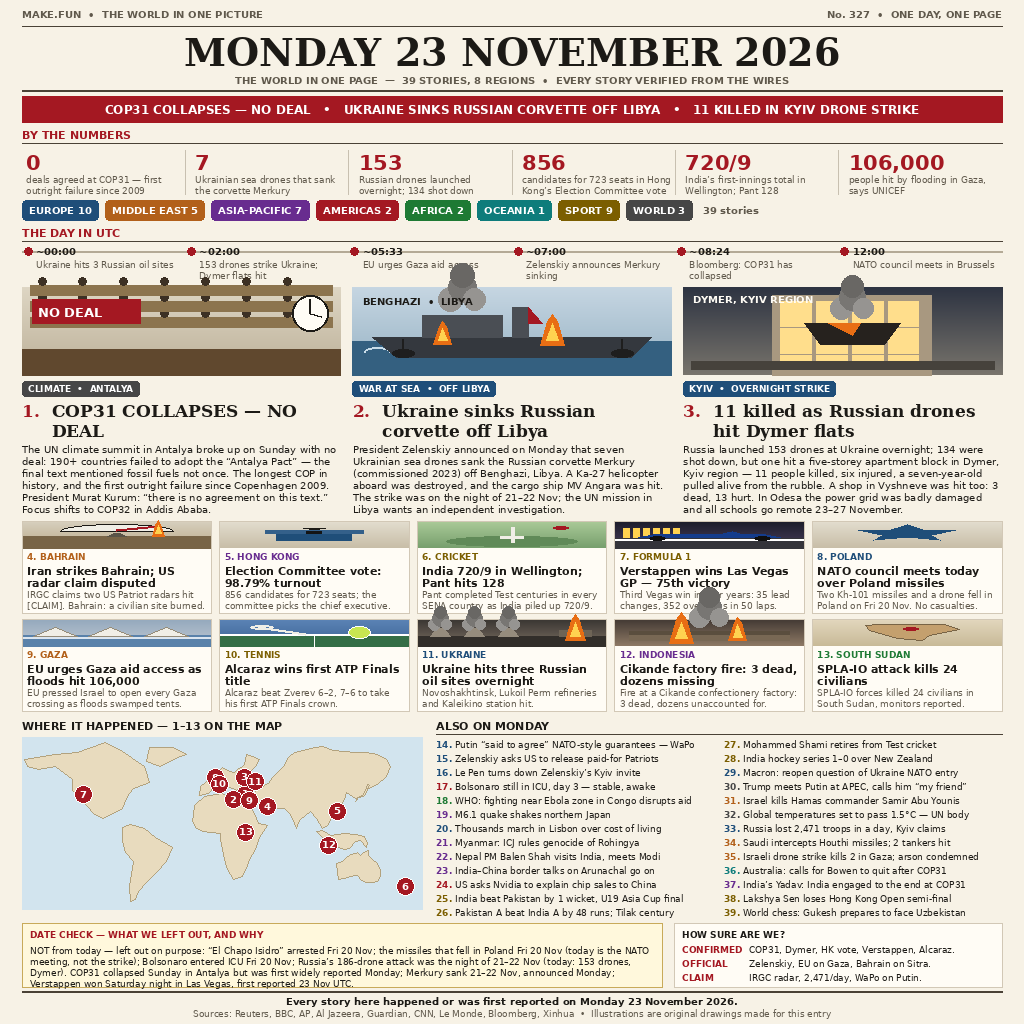
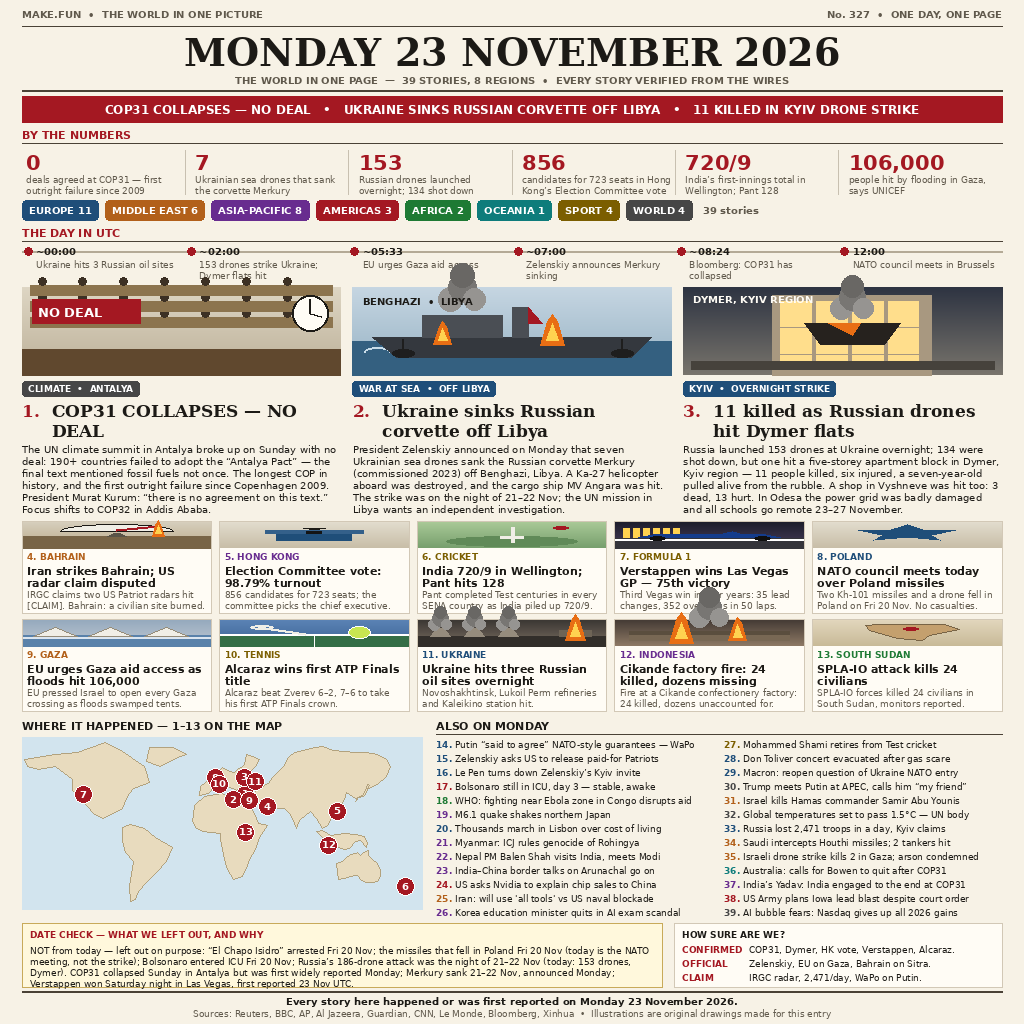
Fix Cikande toll to 24 killed; add front-page consensus stories (Korea minister, Don Toliver evacuation, Iowa blast plan, AI sell-off, Iran blockade vow)

diff --git a/build_image.py b/build_image.py
@@ -231,8 +231,8 @@ CARDS = [
     },
     {
         "n": 12, "region": "ASIA-PACIFIC", "lon": 106.2, "lat": -6.1,
-        "tag": "INDONESIA", "head": "Cikande factory fire: 3 dead, dozens missing",
-        "body": ("Fire at a Cikande confectionery factory: 3 dead, dozens "
+        "tag": "INDONESIA", "head": "Cikande factory fire: 24 killed, dozens missing",
+        "body": ("Fire at a Cikande confectionery factory: 24 killed, dozens "
                  "unaccounted for."),
         "ill": "fire",
     },
@@ -258,10 +258,10 @@ ALSO = [
     (22, "ASIA-PACIFIC", "Nepal PM Balen Shah visits India, meets Modi"),
     (23, "ASIA-PACIFIC", "India\u2013China border talks on Arunachal go on"),
     (24, "AMERICAS", "US asks Nvidia to explain chip sales to China"),
-    (25, "SPORT", "India beat Pakistan by 1 wicket, U19 Asia Cup final"),
-    (26, "SPORT", "Pakistan A beat India A by 48 runs; Tilak century"),
+    (25, "MIDDLE EAST", "Iran: will use 'all tools' vs US naval blockade"),
+    (26, "ASIA-PACIFIC", "Korea education minister quits in AI exam scandal"),
     (27, "SPORT", "Mohammed Shami retires from Test cricket"),
-    (28, "SPORT", "India hockey series 1\u20130 over New Zealand"),
+    (28, "EUROPE", "Don Toliver concert evacuated after gas scare"),
     (29, "EUROPE", "Macron: reopen question of Ukraine NATO entry"),
     (30, "WORLD", "Trump meets Putin at APEC, calls him \u201cmy friend\u201d"),
     (31, "MIDDLE EAST", "Israel kills Hamas commander Samir Abu Younis"),
@@ -271,8 +271,8 @@ ALSO = [
     (35, "MIDDLE EAST", "Israeli drone strike kills 2 in Gaza; arson condemned"),
     (36, "OCEANIA", "Australia: calls for Bowen to quit after COP31"),
     (37, "ASIA-PACIFIC", "India\u2019s Yadav: India engaged to the end at COP31"),
-    (38, "SPORT", "Lakshya Sen loses Hong Kong Open semi-final"),
-    (39, "SPORT", "World chess: Gukesh prepares to face Uzbekistan"),
+    (38, "AMERICAS", "US Army plans Iowa lead blast despite court order"),
+    (39, "WORLD", "AI bubble fears: Nasdaq gives up all 2026 gains"),
 ]
 
 NUMBERS = [

diff --git a/NOTES.md b/NOTES.md
@@ -10,7 +10,7 @@ Cards: 4 Iran strikes Bahrain, US radar claim disputed [CLAIM].
 Pant 128. 7 Verstappen wins Las Vegas GP, 75th win. 8 NATO council meets
 on Poland missiles. 9 Gaza: EU urges aid access, floods hit 106,000.
 10 Alcaraz wins first ATP Finals. 11 Ukraine hits three Russian oil
-sites. 12 Cikande factory fire, Indonesia — 3 dead. 13 South Sudan:
+sites. 12 Cikande factory fire, Indonesia — 24 killed. 13 South Sudan:
 SPLA-IO attack kills 24 civilians.
 
 Also on Monday (14–39): Putin "said to agree" NATO-style guarantees
@@ -19,15 +19,15 @@ Le Pen turns down Kyiv invite; Bolsonaro still in ICU day 3; WHO Ebola
 warning in Congo; M6.1 quake in northern Japan; Lisbon cost-of-living
 protests; ICJ rules Myanmar genocide of Rohingya; Nepal PM Balen Shah
 visits India; India–China border talks; US asks Nvidia about China chip
-sales; India beat Pakistan by 1 wicket, U19 Asia Cup final; Pakistan A
-beat India A by 48 runs; Mohammed Shami retires from Tests; India
-hockey 1–0 over New Zealand; Macron on Ukraine NATO entry; Trump meets
+sales; Iran: will use 'all tools' vs US naval blockade; Korea
+education minister quits in AI exam scandal; Mohammed Shami retires from Tests; Don
+Toliver concert evacuated after gas scare; Macron on Ukraine NATO entry; Trump meets
 Putin at APEC; Israel kills Hamas commander Samir Abu Younis; global
 temperatures set to pass 1.5°C; Russia lost 2,471 troops in a day
 (Ukraine claim); Saudi intercepts Houthi missiles, 2 tankers hit;
 Israeli drone strike kills 2 in Gaza; Australia calls for Bowen to quit
-after COP31; India's Yadav on COP31; Lakshya Sen loses Hong Kong Open
-semi; Gukesh prepares to face Uzbekistan in world chess.
+after COP31; India's Yadav on COP31; US Army plans Iowa lead blast
+despite court order; AI bubble fears: Nasdaq gives up all 2026 gains.
 
 Region counts: Europe 10, Middle East 5, Asia-Pacific 7, Americas 2,
 Africa 2, Oceania 1, Sport 9, World 3 = 39.
